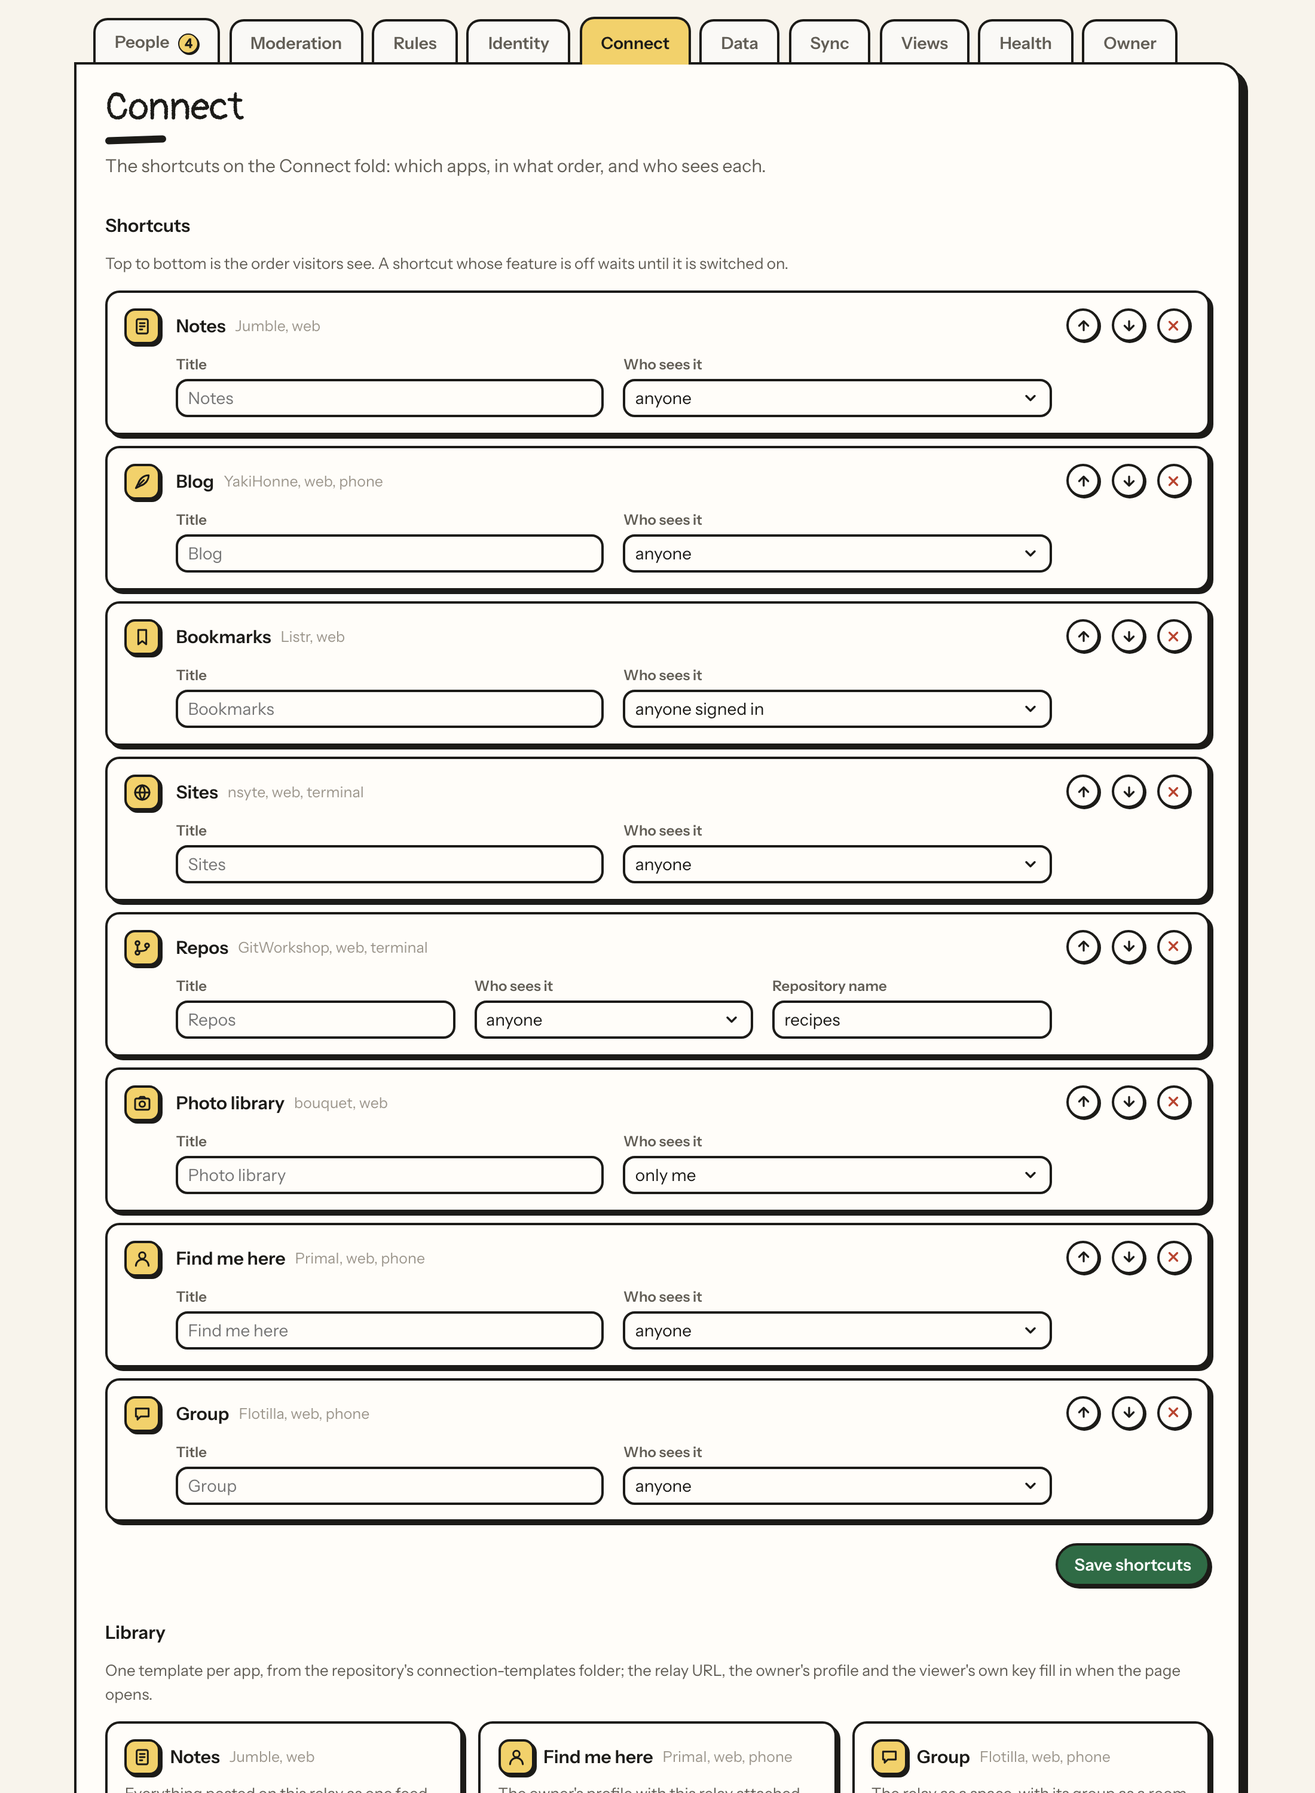
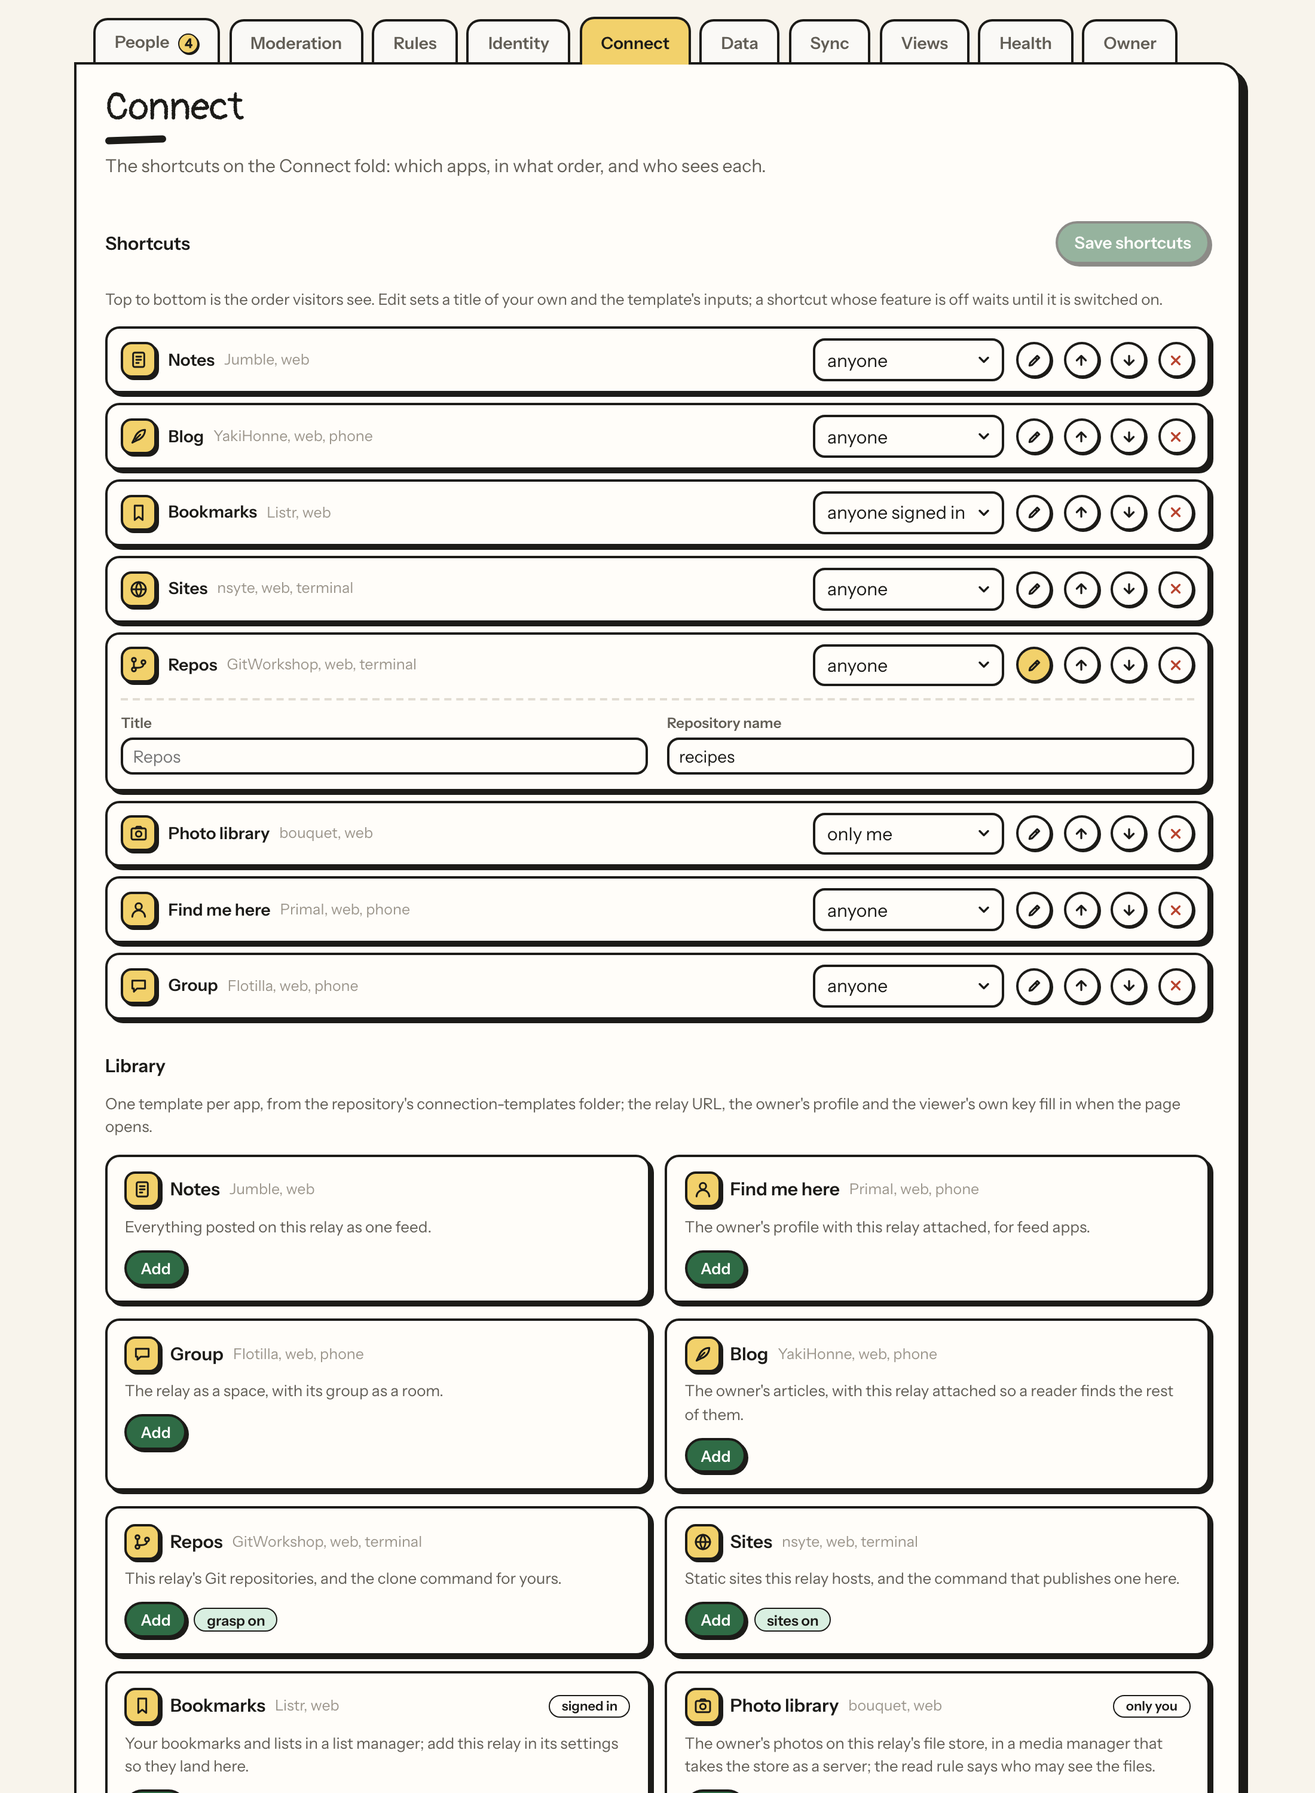
docs: the Connect fold and tab read as they now are, visibility hides the shortcut and not what it leads to, an input may name a pattern, and the pictures are the reworked fold, tab and phone view

Changed region(s): [[0.0618, 0.124, 0.9273, 1.0]]

diff --git a/docs/17-connection-templates.md b/docs/17-connection-templates.md
@@ -7,7 +7,7 @@ audience: developer
 
 A connection template is one app shortcut for a relay's Connect fold: which app opens, what it does with this relay, and the links that hand a viewer over to it. The links are written once, with placeholders, and the relay fills them in for whoever is looking, so one good template works on any relay and every client sees the same handoff. The library is `connection-templates/`, one file per shortcut, folded into `src/gen/connections.ts`; `src/connections.ts` parses, resolves and serves it. The owner picks from the library on the console's Connect tab: which shortcuts show, in what order, and who sees each. A relay template in `relay-templates/` can name shortcuts too, so one preset sets the rules and the handoffs that go with them.
 
-The catalog, one row per template on when to choose it, is the folder's README, [Connection templates](../connection-templates/README.md). The seed library is `notes` (the relay as a feed in Jumble), `find-me` (the owner's profile with this relay attached, in Primal or the viewer's own app through a `nostr:` link), `group` (the relay's group in Flotilla), `blog` (the owner's articles in YakiHonne), `repos` (GitWorkshop, needs GRASP, with one input, the repository name, for a clone command that names the viewer), `sites` (needs sites: the owner's root site and the viewer's own at `https://<npub>.<domain>`, and an nsyte publish command), `bookmarks` (Listr, for signed-in viewers), `photos` (bouquet, the owner's alone by default, needs files), `files` (bouquet, members, needs files), `dm` (the owner in 0xchat), `marmot` (White Noise, needs Marmot) and `relay-page` (Coracle).
+The catalog, one row per template on when to choose it, is the folder's README, [Connection templates](../connection-templates/README.md). The seed library is `notes` (the relay as a feed in Jumble), `find-me` (the owner's profile with this relay attached, in Primal or the viewer's own app through a `nostr:` link), `group` (the relay's group in Flotilla), `blog` (the owner's articles in YakiHonne), `repos` (GitWorkshop, needs GRASP, with one input, the repository name, for a clone command that names the viewer), `sites` (needs sites: the owner's root site and the viewer's own at `https://<npub>.<domain>`, and an nsyte publish command), `bookmarks` (Listr, for signed-in viewers), `photos` (bouquet, a shortcut the owner alone sees by default, needs files; the files themselves follow the relay's read rule), `files` (bouquet, members, needs files), `dm` (the owner in 0xchat), `marmot` (White Noise, needs Marmot) and `relay-page` (Coracle).
 
 ## The file
 
@@ -25,7 +25,7 @@ A template is a JSON document, comments and trailing commas allowed, whose `$sch
 | `visibility` | no | `public`, `auth`, `members` or `owner`: who sees the shortcut when the owner adds it without saying; `public` when left out |
 | `links` | yes | 1 to 6, each a `label` (up to 40 characters) with either an `href` to open (`https://` or `nostr:`) or a `copy` text for the clipboard, up to 2,000 characters |
 | `qr` | no | what the QR code carries, up to 2,000 characters; when left out, the first link's `href`, or the first link's `copy` text when no link has one |
-| `inputs` | no | up to 4, each a `name` (a lowercase letter, then up to 23 lowercase letters, digits, dashes or underscores), a `label` (up to 60 characters), an optional `placeholder` (200) and an optional `default` (500); the owner fills them when adding the shortcut and a link names one as `{input:name}` |
+| `inputs` | no | up to 4, each a `name` (a lowercase letter, then up to 23 lowercase letters, digits, dashes or underscores), a `label` (up to 60 characters), an optional `placeholder` (200), an optional `default` (500) and an optional `pattern` (a regular expression, up to 200 characters, that the owner's value must match); the owner fills them when adding the shortcut and a link names one as `{input:name}`. A value that lands in a URL path or a shell command names a pattern, so what the owner types cannot change the link or the command around it: `repos` keeps its repository name to letters, digits, dot, dash and underscore |
 
 The group template, as it is in the repository:
 
@@ -78,7 +78,7 @@ A link that names a `{user:*}` value is left out for a visitor, and the shortcut
 | `members` | members and the owner |
 | `owner` | the owner |
 
-Visibility is judged from the key the asker proved with a NIP-98 signature (`visibleTo` in `src/connections.ts`). A template sets the visibility a shortcut starts with; the owner changes it per shortcut.
+Visibility is judged from the key the asker proved with a NIP-98 signature (`visibleTo` in `src/connections.ts`). A template sets the visibility a shortcut starts with; the owner changes it per shortcut. It hides the shortcut and nothing else: who may read the events and files a shortcut leads to is the relay's read rule, so an owner-only photo library on a relay anyone reads is a shortcut only the owner sees to files anyone may fetch.
 
 ## The owner's list
 
@@ -132,9 +132,9 @@ Until the owner saves a list, the relay shows the defaults (`DEFAULT_CONNECTIONS
 }
 ```
 
-The Connect fold on the relay's page is a client of this door. It shows the shortcuts as tiles: the icon, the title, the app and where it runs, the sentence, one button per link (Open, Open in app, Copy ...), and a QR button that reveals a QR code of the handoff link for a phone. A visitor sees the public shortcuts; signing in reveals the rest the viewer may see and fills the links that need the viewer's own key.
+The Connect fold on the relay's page is a client of this door. The relay URL with its copy button comes first, then the shortcuts as tiles: the icon, the title, the app and where it runs, the sentence, the first `href` as the one Open button, the first `copy` text as a compact copy button beside it, a QR button that reveals a QR code of the handoff link for a phone, and the remaining links behind a More disclosure. So a template's first link is the one that leads, and its first copy text is the one command or address the app takes; the fold has one relay URL copy control of its own, which is why no template carries one. The Blossom, names and bridge doors and the Git clone example are folded under Connection details beneath the tiles. A visitor sees the public shortcuts; signing in reveals the rest the viewer may see and fills the links that need the viewer's own key.
 
-The owner's console has a Connect tab, between Identity and Data. **Shortcuts** is the current list as rows: a title override, a visibility selector, the template's inputs, move up and down, remove, and Save, which sends the whole list. **Library** is one card per template with Add; a template whose feature is off says so.
+The owner's console has a Connect tab, between Identity and Data. **Shortcuts** is the current list as compact rows: the icon and title, the app, a visibility selector, and Edit, move up, move down and remove; Edit opens one row's title override and inputs below it, and Save sits at the top of the list, lit while something is unsaved, and sends the whole list. **Library** is one card per template with Add; a template whose feature is off says so.
 
 The fold as the owner sees it on a relay with the `home` preset applied, at a desktop width and at a phone width:
 
@@ -150,13 +150,13 @@ Three NIP-86 methods in `METHODS` (`src/manage.ts`), called like every other ([S
 |---|---|---|
 | `listconnectiontemplates` | read | the library, each template with its fields and `available`: whether the feature it needs is on, `true` when it needs none |
 | `listconnections` | read | the owner's list as saved, or the defaults |
-| `setconnections list` | rules, the owner's | replaces the whole list in the order given and answers it; 400 with the reason when an entry names no template, a visibility that is not one of the four, an input the template lacks, or the list runs past 24. The console builds the list from the library, so a bad entry is a mistake to report, not to drop |
+| `setconnections list` | rules, the owner's | replaces the whole list in the order given and answers it; 400 with the reason when an entry names no template, a visibility that is not one of the four, an input the template lacks or one that does not match its pattern, or the list runs past 24. The console builds the list from the library, so a bad entry is a mistake to report, not to drop |
 
 `listpresets` entries carry `connections` when the template has them, so the console can say what a preset sets.
 
 ## The configuration document
 
-`connections` is a section like `kinds` and `retention` ([Scripts and agents](13-scripts-and-agents.md#the-configuration-file)): `exportconfig` includes it, `importconfig` applies it, and a document that leaves it out leaves the shortcuts alone. `parseConfig` drops an entry no relay would take, one warning each: `connections[2]: no connection template named blog`, `connections[0].inputs.repo: notes has no such input`, `connections[24]: at most 24 connections`. `npm run relay check` prints the section as `connections: notes, photos (owner)`.
+`connections` is a section like `kinds` and `retention` ([Scripts and agents](13-scripts-and-agents.md#the-configuration-file)): `exportconfig` includes it, `importconfig` applies it, and a document that leaves it out leaves the shortcuts alone. `parseConfig` drops an entry no relay would take, one warning each: `connections[2]: no connection template named blog`, `connections[0].inputs.repo: notes has no such input`, `connections[1].inputs.repo: must match ^[A-Za-z0-9][A-Za-z0-9._\-]{0,63}$`, `connections[24]: at most 24 connections`. `npm run relay check` prints the section as `connections: notes, photos (owner)`.
 
 A dry run summarizes the section in one line. A shortcut is the whole of its entry, so the same template with another visibility or input is one removed and one added: `connections: +repos, -sites (members)`. A list with the same entries in another order says `connections: reordered`.
 
@@ -178,7 +178,7 @@ A relay template in `relay-templates/` may carry a `connections` section in the 
 | site | sites, notes |
 | marmot, marmot-members | marmot |
 | grasp | repos, notes |
-| home | notes, blog, bookmarks, sites, repos, a private photo library, find-me and group |
+| home | notes, blog, bookmarks, sites, repos, photos (the owner alone sees the shortcut), find-me and group |
 
 `home` (`15-home.jsonc`) is the one-name relay: members write, anyone reads, sites, files and Git on, with a shortcut for each.
 

diff --git a/docs/01-relay-configuration.md b/docs/01-relay-configuration.md
@@ -79,7 +79,7 @@ Four more presets make single-purpose names: **Media** (members upload files; th
 
 **Quiet** is a small private relay with every feature that costs or announces switched off: members write and read, and nothing else is on until you switch it on.
 
-**Home** is one name as your home on nostr: members write, anyone reads, sites, files and Git hosting on, with notes, blog, bookmarks, sites, repos and a private photo library as shortcuts on the Connect fold.
+**Home** is one name as your home on nostr: members write, anyone reads, sites, files and Git hosting on, with notes, blog, bookmarks, sites, repos and a photo library shortcut only you see on the Connect fold. Only the shortcut is yours alone: anyone reads a Home relay, files included, and the members read rule is what closes the store.
 
 ## Identity
 
@@ -97,9 +97,9 @@ One row per list that names relays: relay list, DM inbox, search relays and Blos
 
 ## Connect
 
-The app shortcuts on your relay's page. Anyone who opens the **Connect** fold there sees each shortcut as a tile: an icon, a title, the app and where it runs, one sentence, buttons that open the app or copy a link (Open, Open in app, Copy ...), and a QR button that shows the handoff link as a QR code for a phone. A visitor sees the public ones; someone who signs in sees the rest you let them see, with the links that need their own key filled in.
+The app shortcuts on your relay's page. Anyone who opens the **Connect** fold there sees the relay URL with its copy button, then each shortcut as a tile: an icon, a title, the app and where it runs, one sentence, an **Open** button, a copy button when the app takes a command or an address, a QR button that shows the handoff link as a QR code for a phone, and **More** for the app's other links. The Blossom, names and bridge addresses and the Git clone example sit under **Connection details** below the tiles. A visitor sees the public shortcuts; someone who signs in sees the rest you let them see, with the links that need their own key filled in.
 
-- **Shortcuts** is your list, in the order the fold shows it: one row per shortcut with a title of your own, who sees it (anyone, anyone signed in, members, only you), the template's inputs, move up and down, and remove. **Save** writes the whole list. Until you save one, the fold shows notes, find me here and the group; a saved empty list shows nothing.
+- **Shortcuts** is your list, in the order the fold shows it: one row per shortcut with who sees it (anyone, anyone signed in, members, only you), **Edit** for a title of your own and the template's inputs, move up and down, and remove. **Save**, at the top of the list, lights up while there is something to save and writes the whole list. Who sees it hides the shortcut and nothing else: the read rule still says who may read what the shortcut leads to. Until you save a list, the fold shows notes, find me here and the group; a saved empty list shows nothing.
 - **Library** is one card per template with **Add**. A template that needs a feature you switched off says so, and its shortcut stays off the fold until the feature is on.
 
 ![The Connect tab: the shortcuts as rows, then the library](img/connect-tab.png)

diff --git a/README.md b/README.md
@@ -21,7 +21,7 @@ That answers with a relay at a memorable name, open to anyone for 14 days. Claim
 - **Encrypted group transport.** Opt-in Marmot KeyPackages and opaque MLS group messages, with account admission and storage caps for ephemeral authors. Clients manage encryption and group membership.
 - **A Git host.** Opt-in GRASP-01 Smart HTTP, backed by [ntig](https://github.com/FelineStateMachine/ntig). Signed NIP-34 state authorizes branch and tag changes; events wait for their Git objects before publication. Hosting has [explicit storage limits](docs/22-grasp-01-git-hosting.md#git-http), and the owner can request a bounded read-only inventory without authorizing deletion.
 - **A file host.** Blossom and NIP-96 on the same bucket, with mirroring, pre-flight checks and file reports.
-- **A console.** Ten tabs on the relay's own page, signed by a browser extension or a remote signer app on a phone. Presets set up an outbox, an inbox, a private relay, a chat, a search replica, a media host, a quiet relay with every costly feature off or a home with everything on, in one click, with the app shortcuts to match. The template collection also includes static sites, public or member-published Marmot transport and Git repositories. The Connect fold shows those shortcuts to anyone who opens the page: the right app, the relay already attached, a QR for a phone.
+- **A console.** Ten tabs on the relay's own page, signed by a browser extension or a remote signer app on a phone. Presets set up an outbox, an inbox, a private relay, a chat, a search replica, a media host, a quiet relay with every costly feature off or a home with sites, files and Git on, in one click, with the app shortcuts to match. The template collection also includes static sites, public or member-published Marmot transport and Git repositories. The Connect fold shows those shortcuts to anyone who opens the page: the right app, the relay already attached, a QR for a phone.
 - **A file.** Everything the console sets, the app shortcuts included, as one document with a schema: check it offline, see what applying would change, apply it, pull it back. Keep your relay in your repository. The presets are the same files, in `relay-templates/`, and the shortcuts they name are files in `connection-templates/`.
 - **Jobs.** Pull another relay in, keep a standing mirror, fetch your own history from your relay list, rebroadcast to other relays, and dump everything to a file on a schedule.
 - **Your own domain.** `wss://relay.example.com` onto your relay with one CNAME, or a custom hostname targeting one of your static sites.

diff --git a/docs/00-getting-started.md b/docs/00-getting-started.md
@@ -47,7 +47,7 @@ wss://<name>.bind.ws
 
 That is all. The relay speaks the standard protocol, so Damus, Amethyst, noStrudel, Coracle and the rest need no special setup. Your notes, reactions and profile land on your relay the moment you publish.
 
-The relay's page has shortcuts too: open the **Connect** fold. Each is a tile the owner chose: an app, what it does with this relay, and buttons that open it or copy the link, with a QR button that puts the handoff link on a phone. Relay apps such as Jumble and Flotilla open the relay as a place. Feed apps such as Primal have no relay pages, so **Find me here** opens the owner's profile with this relay attached as the hint; add the relay in the app's settings from there. A visitor sees the public shortcuts; sign in to see the rest the owner shares with you, with the links that need your own key filled in. As the owner, you pick the shortcuts on the Connect tab ([Relay configuration](01-relay-configuration.md#connect)).
+The relay's page has shortcuts too: open the **Connect** fold. The relay URL with its copy button comes first, then one tile per shortcut the owner chose: an app, what it does with this relay, an **Open** button, a copy button for a command or an address when the app takes one, a QR button that puts the handoff link on a phone, and **More** for the app's other links. Relay apps such as Jumble and Flotilla open the relay as a place. Feed apps such as Primal have no relay pages, so **Find me here** opens the owner's profile with this relay attached as the hint; add the relay in the app's settings from there. A visitor sees the public shortcuts; sign in to see the rest the owner shares with you, with the links that need your own key filled in. The Blossom, names and bridge addresses and the Git clone example wait under **Connection details** at the bottom of the fold. As the owner, you pick the shortcuts on the Connect tab ([Relay configuration](01-relay-configuration.md#connect)).
 
 ## Your relay lists
 

diff --git a/docs/04-data-and-names.md b/docs/04-data-and-names.md
@@ -73,7 +73,7 @@ Names are cheap, so a relay does not have to do everything. On the Rules tab, **
 | marmot | anyone | anyone | KeyPackages, encrypted group envelopes, private welcomes and relay lists; Marmot enabled |
 | grasp | members publish events | anyone | every kind, forever; GRASP Git hosting enabled |
 | marmot-members | members; group writes authenticate | anyone | KeyPackages, encrypted group envelopes, private welcomes and relay lists; Marmot enabled |
-| home | members | anyone | every kind, forever; sites, files and Git hosting on, with notes, blog, bookmarks, sites, repos and a private photo library as shortcuts on the Connect fold |
+| home | members | anyone | every kind, forever; sites, files and Git hosting on, with notes, blog, bookmarks, sites, repos and a photo library shortcut only the owner sees on the Connect fold |
 
 Each preset is a file in the repository's `relay-templates/` folder: a relay configuration with the rules sections only, which is also what a file of your own looks like ([Scripts and agents](13-scripts-and-agents.md#the-configuration-file)). A preset that names features sets them too. A preset may also carry the Connect fold's shortcuts ([Relay configuration](01-relay-configuration.md#connect)): one that does sets them, and one that does not leaves them alone.
 
